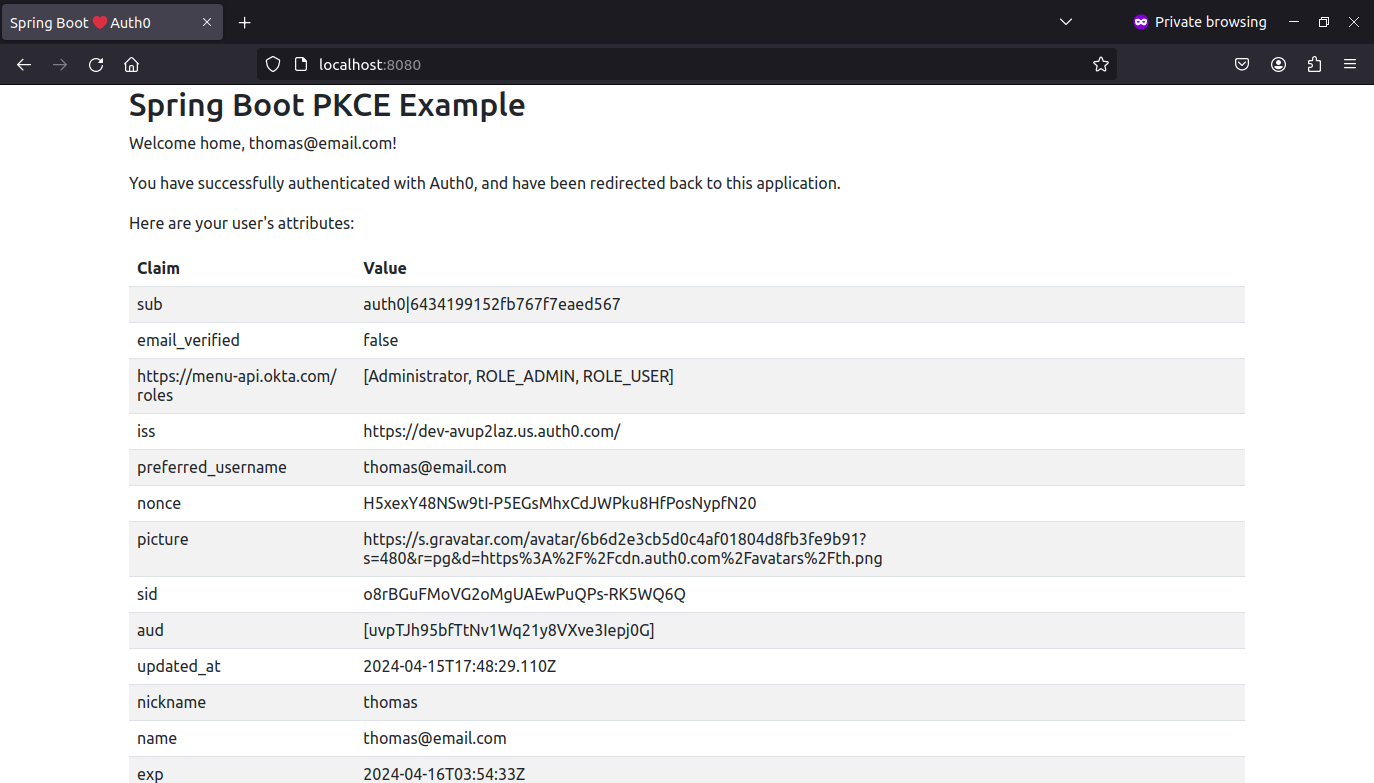
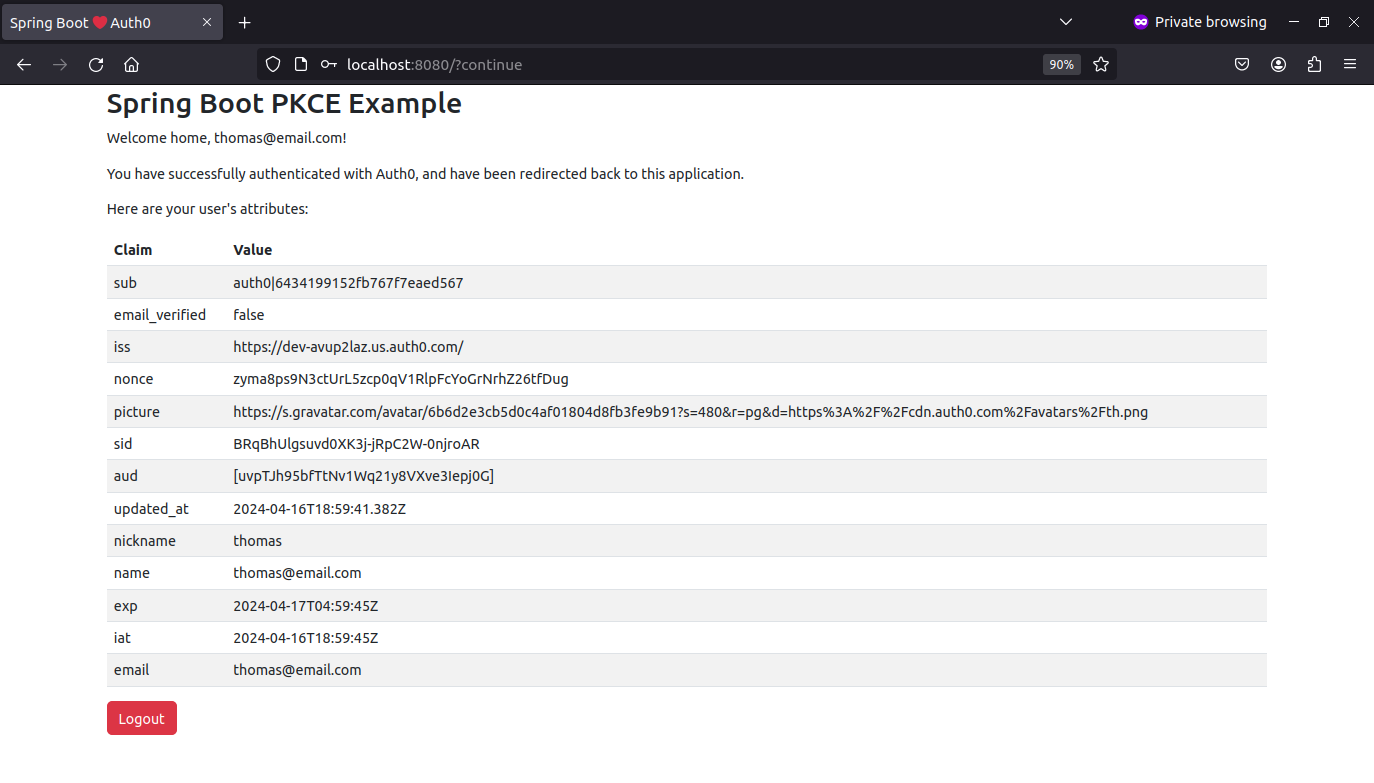
updates from revisions

diff --git a/_source/_posts/2024-02-27-spring-security-pkce.md b/_source/_posts/2024-02-27-spring-security-pkce.md
@@ -93,7 +93,7 @@ curl -G https://start.spring.io/starter.tgz \
 
 > Note: You can also create the project using [Spring Initalizr Web UI](https://start.spring.io/)
 
-If you inspect the contents of `build.gradle`, you will find the Okta Spring Boot Starter dependency is included. The Okta Spring Boot Starter is the Okta's Spring Security integration. It simplifies the process of adding authentication into your Spring Boot application by auto-configuring the necessary classes and adhering to best practices, eliminating the need for you to do it manually. It leverages the OAuth 2.0 and OpenID Connect protocols for user authentication.
+If you inspect the contents of `build.gradle`, you will find the Okta Spring Boot Starter dependency is included. The Okta Spring Boot Starter is Okta's Spring Security integration. It simplifies the process of adding authentication into your Spring Boot application by auto-configuring the necessary classes and adhering to best practices, eliminating the need for you to do it manually. It leverages the OAuth 2.0 and OpenID Connect protocols for user authentication.
 
 Add the following dependency to `build.gradle`:
 
@@ -104,7 +104,7 @@ implementation 'org.thymeleaf.extras:thymeleaf-extras-springsecurity6'
 Create the `home.html` template at `src/main/resources/templates` with the following content:
 
 ```html
-<!-- src/main/resources/templates/index.html -->
+<!-- src/main/resources/templates/home.html -->
 <html xmlns:th="http://www.thymeleaf.org">
 <head>
     <title>Spring Boot ❤ Auth0</title>
@@ -222,6 +222,7 @@ logging:
 Create a new `application.yml` at the root at the project with the following properties:
 
 ```yml
+# application.yml
 okta:
   oauth2:
     issuer: https://<your-auth0-domain>/
@@ -259,16 +260,16 @@ In the browser window, continue with the sign-in flow, and give consent to the a
 
 {% img blog/spring-security-pkce/auth0-consent.png alt:"Auth0 Consent Page" width:"400" %}{: .center-image }
 
-After the approval, Auth0 will redirect the browser to the `index.html` page. At the top right, the navigation has a user drop-down menu, with **Profile** and **Logout** options. If you click on **Profile**, it will display the ID Token claims. If you click on **Logout**, it will end the local session and redirect to a _logged out_ page generated by Spring Security.
+After the approval, Auth0 will redirect the browser to the `home.html` page, displaying the ID Token claims. At the bottom left, you can find a **Logout** button. If you click on **Logout**, it will end the local session and redirect to a _logged out_ page generated by Spring Security.
 
-{% img blog/spring-security-pkce/home-page.png alt:"Application Home Page" width:"800" %}{: .center-image }
+{% img blog/spring-security-pkce/home-page.png alt:"Application Home Page" width:"900" %}{: .center-image }
 
 ### Configure the logout
 
 Modify the logout flow with the following configuration:
 
 ```yml
-# src/main/resources/application.yml
+# application.yml
 ...
 okta:
   oauth2:
